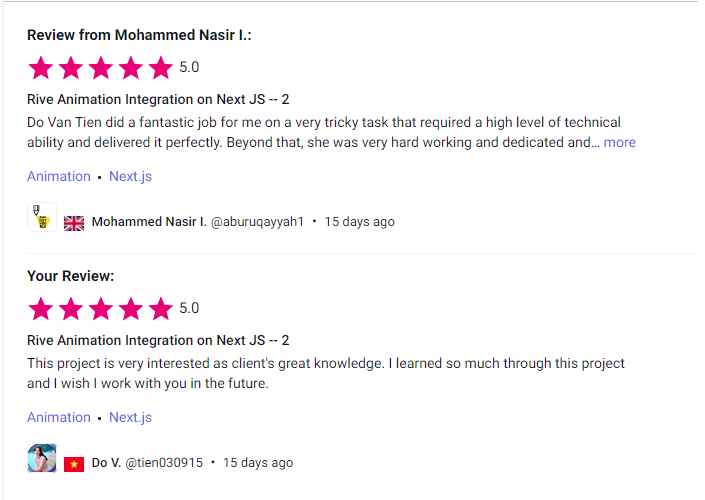
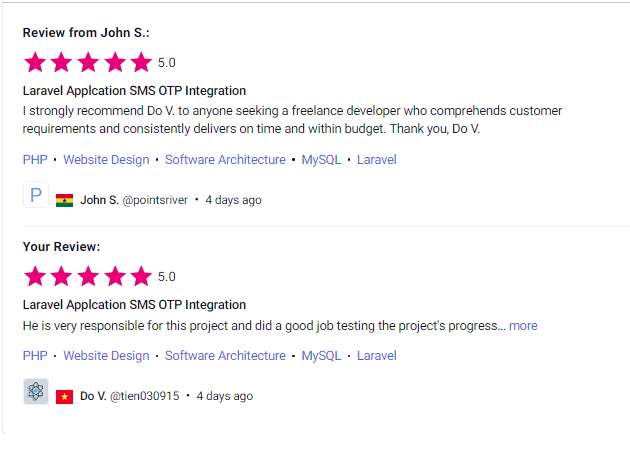
update

diff --git a/index.html b/index.html
@@ -6,7 +6,7 @@
   <meta charset="utf-8" />
   <meta content="width=device-width, initial-scale=1.0" name="viewport" />
 
-  <title>Do Van Tien's Personal Site</title>
+  <title>Phuong Le's Personal Site</title>
   <meta content="" name="description" />
   <meta content="" name="keywords" />
 
@@ -62,7 +62,7 @@
       <div class="table-cell">
         <div class="container">
           <!--<p class="display-6 color-d">Hello, world!</p>-->
-          <h1 class="hero-title mb-4">I am Do Van Tien</h1>
+          <h1 class="hero-title mb-4">I am Phuong Le</h1>
           <p class="hero-subtitle">
             <span class="typed" data-typed-items="Full Stack Developer,  Mobile App Developer,  BlockChain Developer,  Machine Learning Engineer"></span>
           </p>
@@ -85,7 +85,7 @@
                   <div class="row">
                     <div class="col-sm-6 col-md-5">
                       <div class="about-img">
-                        <img src="assets/img/profile_280.jpg" class="img-fluid rounded b-shadow-a profile-image" alt="" />
+                        <img src="assets/img/phuongle.png" class="img-fluid rounded b-shadow-a profile-image" alt="" />
                       </div>
                     </div>
                     <div class="col-sm-6 col-md-7">
@@ -93,7 +93,7 @@
                         <br />
                         <p>
                           <span class="title-s">Name: </span>
-                          <span>Do Van Tien</span>
+                          <span>Phuong Le</span>
                         </p>
                         <p>
                           <span class="title-s">City: </span>
@@ -101,7 +101,7 @@
                         </p>
                         <p>
                           <span class="title-s">Email: </span>
-                          <span>codesmart.co1@gmail.com</span>
+                          <span>phuongleit73@gmail.com</span>
                         </p>
                         <!-- <p><span class="title-s">Phone: </span> <span>+8113-877-3090</span></p> -->
                       </div>
@@ -535,8 +535,8 @@
                         <div class="col-sm-6">
                           <img src="assets/img/5star.png" alt="" />
                           <hr />
-                          <span class="w-ctegory">Do Van Tien did a fantastic job for me on a very tricky task that required a high level of technical ability and
-                            delivered it perfectly. Beyond that, she was very hard working and dedicated and made sure it was done properly 
+                          <span class="w-ctegory">Phuongle did a fantastic job for me on a very tricky task that required a high level of technical ability and
+                            delivered it perfectly. Beyond that, he was very hard working and dedicated and made sure it was done properly 
                             and went beyond my expectations. I will be using her again for future tasks for sure.</span>
                           <br /><br />
                           <span class="w-ctegory" style="font-style: italic;">Mohammed Nasir, June, 2024</span>
@@ -565,7 +565,7 @@
                         <div class="col-sm-6">
                           <img src="assets/img/5star.png" alt="" />
                           <hr />
-                          <span class="w-ctegory">Do V. well done and very good work and attention to detail.</span>
+                          <span class="w-ctegory">Phuong L. well done and very good work and attention to detail.</span>
                           <br /><br />
                           <span class="w-ctegory" style="font-style: italic;">Tholfikar, June, 2023</span>
                         </div>
@@ -592,7 +592,7 @@
                         <div class="col-sm-6">
                           <img src="assets/img/5star.png" alt="" />
                           <hr />
-                          <span class="w-ctegory">Do v. is a fast learner, willing to learn something new. keep up the good work.</span>
+                          <span class="w-ctegory">Phuong L. is a fast learner, willing to learn something new. keep up the good work.</span>
                           <br /><br />
                           <span class="w-ctegory" style="font-style: italic;">Dindin, June, 2021</span>
                         </div>
@@ -619,7 +619,7 @@
                         <div class="col-sm-6">
                           <img src="assets/img/5star.png" alt="" />
                           <hr />
-                          <span class="w-ctegory">Do V. has good technical expertise, was very dedicated and spent many hours trying to find a solution.</span>
+                          <span class="w-ctegory">Phuong L. has good technical expertise, was very dedicated and spent many hours trying to find a solution.</span>
                           <br /><br />
                           <span class="w-ctegory" style="font-style: italic;">Jonathon, June, 2021</span>
                         </div>
@@ -646,8 +646,8 @@
                         <div class="col-sm-6">
                           <img src="assets/img/5star.png" alt="" />
                           <hr />
-                          <span class="w-ctegory">I strongly recommend Do V. to anyone seeking a freelance developer who comprehends customer requirements 
-                            and consistently delivers on time and within budget. Thank you, Do V.</span>
+                          <span class="w-ctegory">I strongly recommend Phuong L. to anyone seeking a freelance developer who comprehends customer requirements 
+                            and consistently delivers on time and within budget. Thank you, Phuong L.</span>
                           <br /><br />
                           <span class="w-ctegory" style="font-style: italic;">John S., June, 2024</span>
                         </div>
@@ -696,8 +696,8 @@
               <div class="card-footer">
                 <div class="post-author">
                   <a href="#">
-                    <img src="assets/img/profile_280.jpg" alt="" class="avatar rounded-circle" />
-                    <span class="author">D.V. Tien</span>
+                    <img src="assets/img/phuongle.png" alt="" class="avatar rounded-circle" />
+                    <span class="author">Phuong Le</span>
                   </a>
                 </div>
                 <div class="post-date">
@@ -718,8 +718,8 @@
               <div class="card-footer">
                 <div class="post-author">
                   <a href="#">
-                    <img src="assets/img/profile_280.jpg" alt="" class="avatar rounded-circle" />
-                    <span class="author">D.V. Tien</span>
+                    <img src="assets/img/phuongle.png" alt="" class="avatar rounded-circle" />
+                    <span class="author">Phuong Le</span>
                   </a>
                 </div>
                 <div class="post-date">
@@ -740,8 +740,8 @@
               <div class="card-footer">
                 <div class="post-author">
                   <a href="#">
-                    <img src="assets/img/profile_280.jpg" alt="" style=" object-fit: cover;" class="avatar rounded-circle" />
-                    <span class="author">D.V. Tien</span>
+                    <img src="assets/img/phuongle.png" alt="" style=" object-fit: cover;" class="avatar rounded-circle" />
+                    <span class="author">Phuong Le</span>
                   </a>
                 </div>
                 <div class="post-date">
@@ -827,7 +827,7 @@
                         </li>
                         <li>
                           <span class="bi bi-envelope"></span><span style="color: #555">
-                            codesmart.co1@gmail.com</span>
+                            phuongleit73@gmail.com</span>
                         </li>
                       </ul>
                     </div>
@@ -846,7 +846,7 @@
                                 class="bi bi-telegram"></i></span></a>
                         </li> -->
                         <li>
-                          <a href="https://github.com/DevDovantien"><span class="ico-circle"><i
+                          <a href="https://github.com/DevPhuongle"><span class="ico-circle"><i
                                 class="bi bi-github"></i></span></a>
                         </li>
                         <li>
